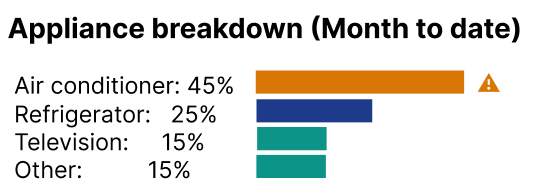
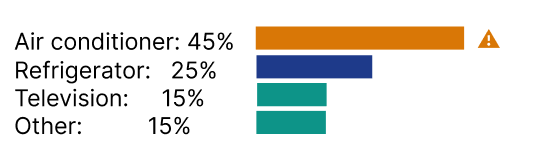
Integrate usage page and css from Jack's branches, polish layout and CSS consistency

diff --git a/usage.html b/usage.html
@@ -48,18 +48,128 @@
     ============================================ -->
     <main class="main">
         <div class="container">
-            <!-- PAGE-SPECIFIC CONTENT GOES HERE -->
-            <section class="section">
+
+            <section class="section usage-page">
+
+                <!-- Electricity Usage Card -->
+                <div class="card">
+                    <div class="card-header">
+
+                    <h2>Electricity Usage by Period</h2>
+
+                    <!-- Period Selector -->
+                    <div class="period-selector">
+                        <select class="btn-secondary">
+                            <option>Week to Date</option>
+                            <option selected>Month to Date</option>
+                            <option>Quarter to Date</option>
+                            <option>Year to Date</option>
+                        </select>
+                    </div>
+                </div>
+
+                <div class="chart-container">
+                    <div class="usage-row">
+                        <span>Current estimate (this month):</span>
+                        <span>$210</span>
+                    </div>
+
+                    <div class="usage-row">
+                        <p>Last bill (last month):</p>
+                        <p>$185</p>
+                    </div>
+
+                    <div class="usage-row warning">
+                        <span>💲 Projected bill:</span>
+                        <span>$290</span>
+                    </div>
+                </div>
+            </section>
+
+            <!-- Appliance Breakdown -->
+            <section class="section usage-page">
+                <div class="card">
+                    <div class="card-header">
+
+                        <h2>Appliance Breakdown</h2>
+
+                        <div class="period-selector">
+                            <select class="btn-secondary">
+                                <option>Week to Date</option>
+                                <option selected>Month to Date</option>
+                                <option>Quarter to Date</option>
+                                <option>Year to Date</option>
+                            </select>
+                        </div>
+
+                        <div class="period-selector">
+                            <select class="btn-secondary">
+                                <option selected>Living Room</option>
+                                <option>Kitchen</option>
+                                <option>Bedroom 1</option>
+                                <option>Bedroom 2</option>
+                                <option>Bedroom 3</option>
+                                <option>Garage</option>
+                                <option>Laundry</option>
+                            </select>
+                        </div>
+
+                    </div>
+
+                    <div class="chart-container">
+                        <img src="images/appliance_breakdown.png" alt="Appliance Breakdown" class="chart-image">
+
+                        <p>
+                            ⚠️ Alert: Air conditioner usage is 30% higher than similar homes in Oxley.
+                        </p>
+
+                        <p class="tips">
+                            ℹ️ Why is my bill high?
+                            <a href="#tips">(click for tips)</a>
+                        </p>
+                    </div>
+            </section>
+            
+            <!-- Room Breakdown -->
+             <section class="section usage-page">
                 <div class="card">
 
-                    <p style="color: red;">[Add your page content here.]</p>
-                    <p style="color: red;">[Add your page specific css to style.css section 10.3]</p>
+                    <div class="card-header">
+
+                        <h2>Room Breakdown by Period</h2>
+
+                        <div class="period-selector">
+                            <select class="btn-secondary">
+                                <option>Week to Date</option>
+                                <option selected>Month to Date</option>
+                                <option>Quarter to Date</option>
+                                <option>Year to Date</option>
+                            </select>
+                        </div>
+                </div>
+
+                <div class="chart-container">
+                    <img src="images/room_breakdown.png" alt="Room Breakdown Image" class="chart-image">
+                </div>
+            </section>
+
+            <!-- Buttons -->
+            <section class="section">
+                <div class="button-group">
+
+                    <a href="settings.html#appliancesModal" class="btn-secondary">
+                        👉 Edit Appliances
+                    </a>
+
+                    <a href="index.html#tips" class="btn-secondary">
+                        👉 View Saving Tips
+                    </a>
 
                 </div>
             </section>
+
         </div>
     </main>
-
 
     <!-- ============================================
          MOBILE BOTTOM NAVIGATION BAR

diff --git a/index.html b/index.html
@@ -58,43 +58,44 @@
                         </div>
                     </a>
 
-                <div class="alerts-list">
-                    <!-- New Alert (highlighted), links to Alerts page -->
-                    <a href="alerts.html" class="alert-item-unread">
-                        <div class="alert-content">
-                            <span class="alert-badge">NEW</span>
-                            <span class="alert-title">Abnormal Usage</span>
-                        </div>
-                        <span class="alert-date">July 30, 2025</span> 
-                    </a>
+                    <div class="alerts-list">
+                        <!-- New Alert (highlighted), links to Alerts page -->
+                        <a href="alerts.html" class="alert-item-unread">
+                            <div class="alert-content">
+                                <span class="alert-badge">NEW</span>
+                                <span class="alert-title">Abnormal Usage</span>
+                            </div>
+                            <span class="alert-date">July 30, 2025</span> 
+                        </a>
 
-                    <!-- Regular Alerts - shows demo message -->
-                    <div class="alert-item-read" onclick="return alert('Your bill is on its way. Please come back next year.'); ">
-                        <div class="alert-content">
-                            <span class="alert-title">Pay bill</span>
+                        <!-- Regular Alerts - shows demo message -->
+                        <div class="alert-item-read" onclick="return alert('Your bill is on its way. \nPlease come back next year.'); ">
+                            <div class="alert-content">
+                                <span class="alert-title">Pay bill</span>
+                            </div>
+                            <span class="alert-date">June 21, 2025</span>                        
                         </div>
-                        <span class="alert-date">June 21, 2025</span>                        
+                    
+                        <!-- Regular - links to Alerts page -->
+                        <a href="alerts.html" class="alert-item-read">
+                            <div class="alert-content">
+                                <span class="alert-title">Abnormal Usages</span>
+                            </div>
+                            <span class="alert-date">May 19, 2025</span>
+                        </a>
+                                            
+                        <!-- Regular Alert - link to support section on Home page -->
+                        <a href="#tips" class="alert-item-read">
+                            <div class="alert-content">
+                                <span class="alert-title">New support for renters</span>
+                            </div>
+                            <span class="alert-date">May 10, 2025</span>
+                        </a>                  
                     </div>
-                   
-                    <!-- Regular - links to Alerts page -->
-                    <a href="alerts.html" class="alert-item-read">
-                        <div class="alert-content">
-                            <span class="alert-title">Abnormal Usages</span>
-                        </div>
-                        <span class="alert-date">May 19, 2025</span>
-                    </a>
-                                        
-                    <!-- Regular Alert - link to support section on Home page -->
-                    <a href="#tips" class="alert-item-read">
-                        <div class="alert-content">
-                            <span class="alert-title">New support for renters</span>
-                        </div>
-                        <span class="alert-date">May 10, 2025</span>
-                    </a>                  
+
+                    <a href="alerts.html" class="inline-link" style="display: inline-block; margin-top: var(--spacing-md);">👉 View all alerts</a>
+                
                 </div>
-
-                <a href="alerts.html" class="inline-link" style="display: inline-block; margin-top: var(--spacing-md);">👉 View all alerts</a>
-
             </section>
 
             <!---- Daily usage chart card-->

diff --git a/css/style.css b/css/style.css
@@ -549,9 +549,50 @@ a {
    10.3 PAGE-SPECIFIC STYLES
        - Usage Page Only
 ============================================ */
-.period-selector {  }
-.usage-chart { }
-.room-breakdown {  }
+.usage-page {
+    display: flex;
+    flex-direction: column;
+    gap: 20px;
+}
+
+/* Period selector */
+.period-selector {
+    display: flex;
+    justify-content: flex-end;
+}
+
+/* Cards */
+.usage-card h2,
+.card h2 {
+    margin-bottom: var(--spacing-md);
+}
+
+/* Usage rows */
+.usage-row {
+    display: flex;
+    justify-content: space-between;
+    margin: 0 0;
+}
+
+.usage-row.warning {
+    margin-top: var(--spacing-sm);
+    font-weight: bold;
+}
+
+/* Card header */
+.card-header {
+    display: flex;
+    justify-content: space-between;
+    align-items: center;
+}
+
+.button-group {
+    display: flex;
+    justify-content: space-evenly;
+    gap: var(--spacing-lg);
+    flex-wrap: wrap;
+    margin: var(--spacing-lg) 0;
+}
 
 /* ============================================
    10.4 PAGE-SPECIFIC STYLES